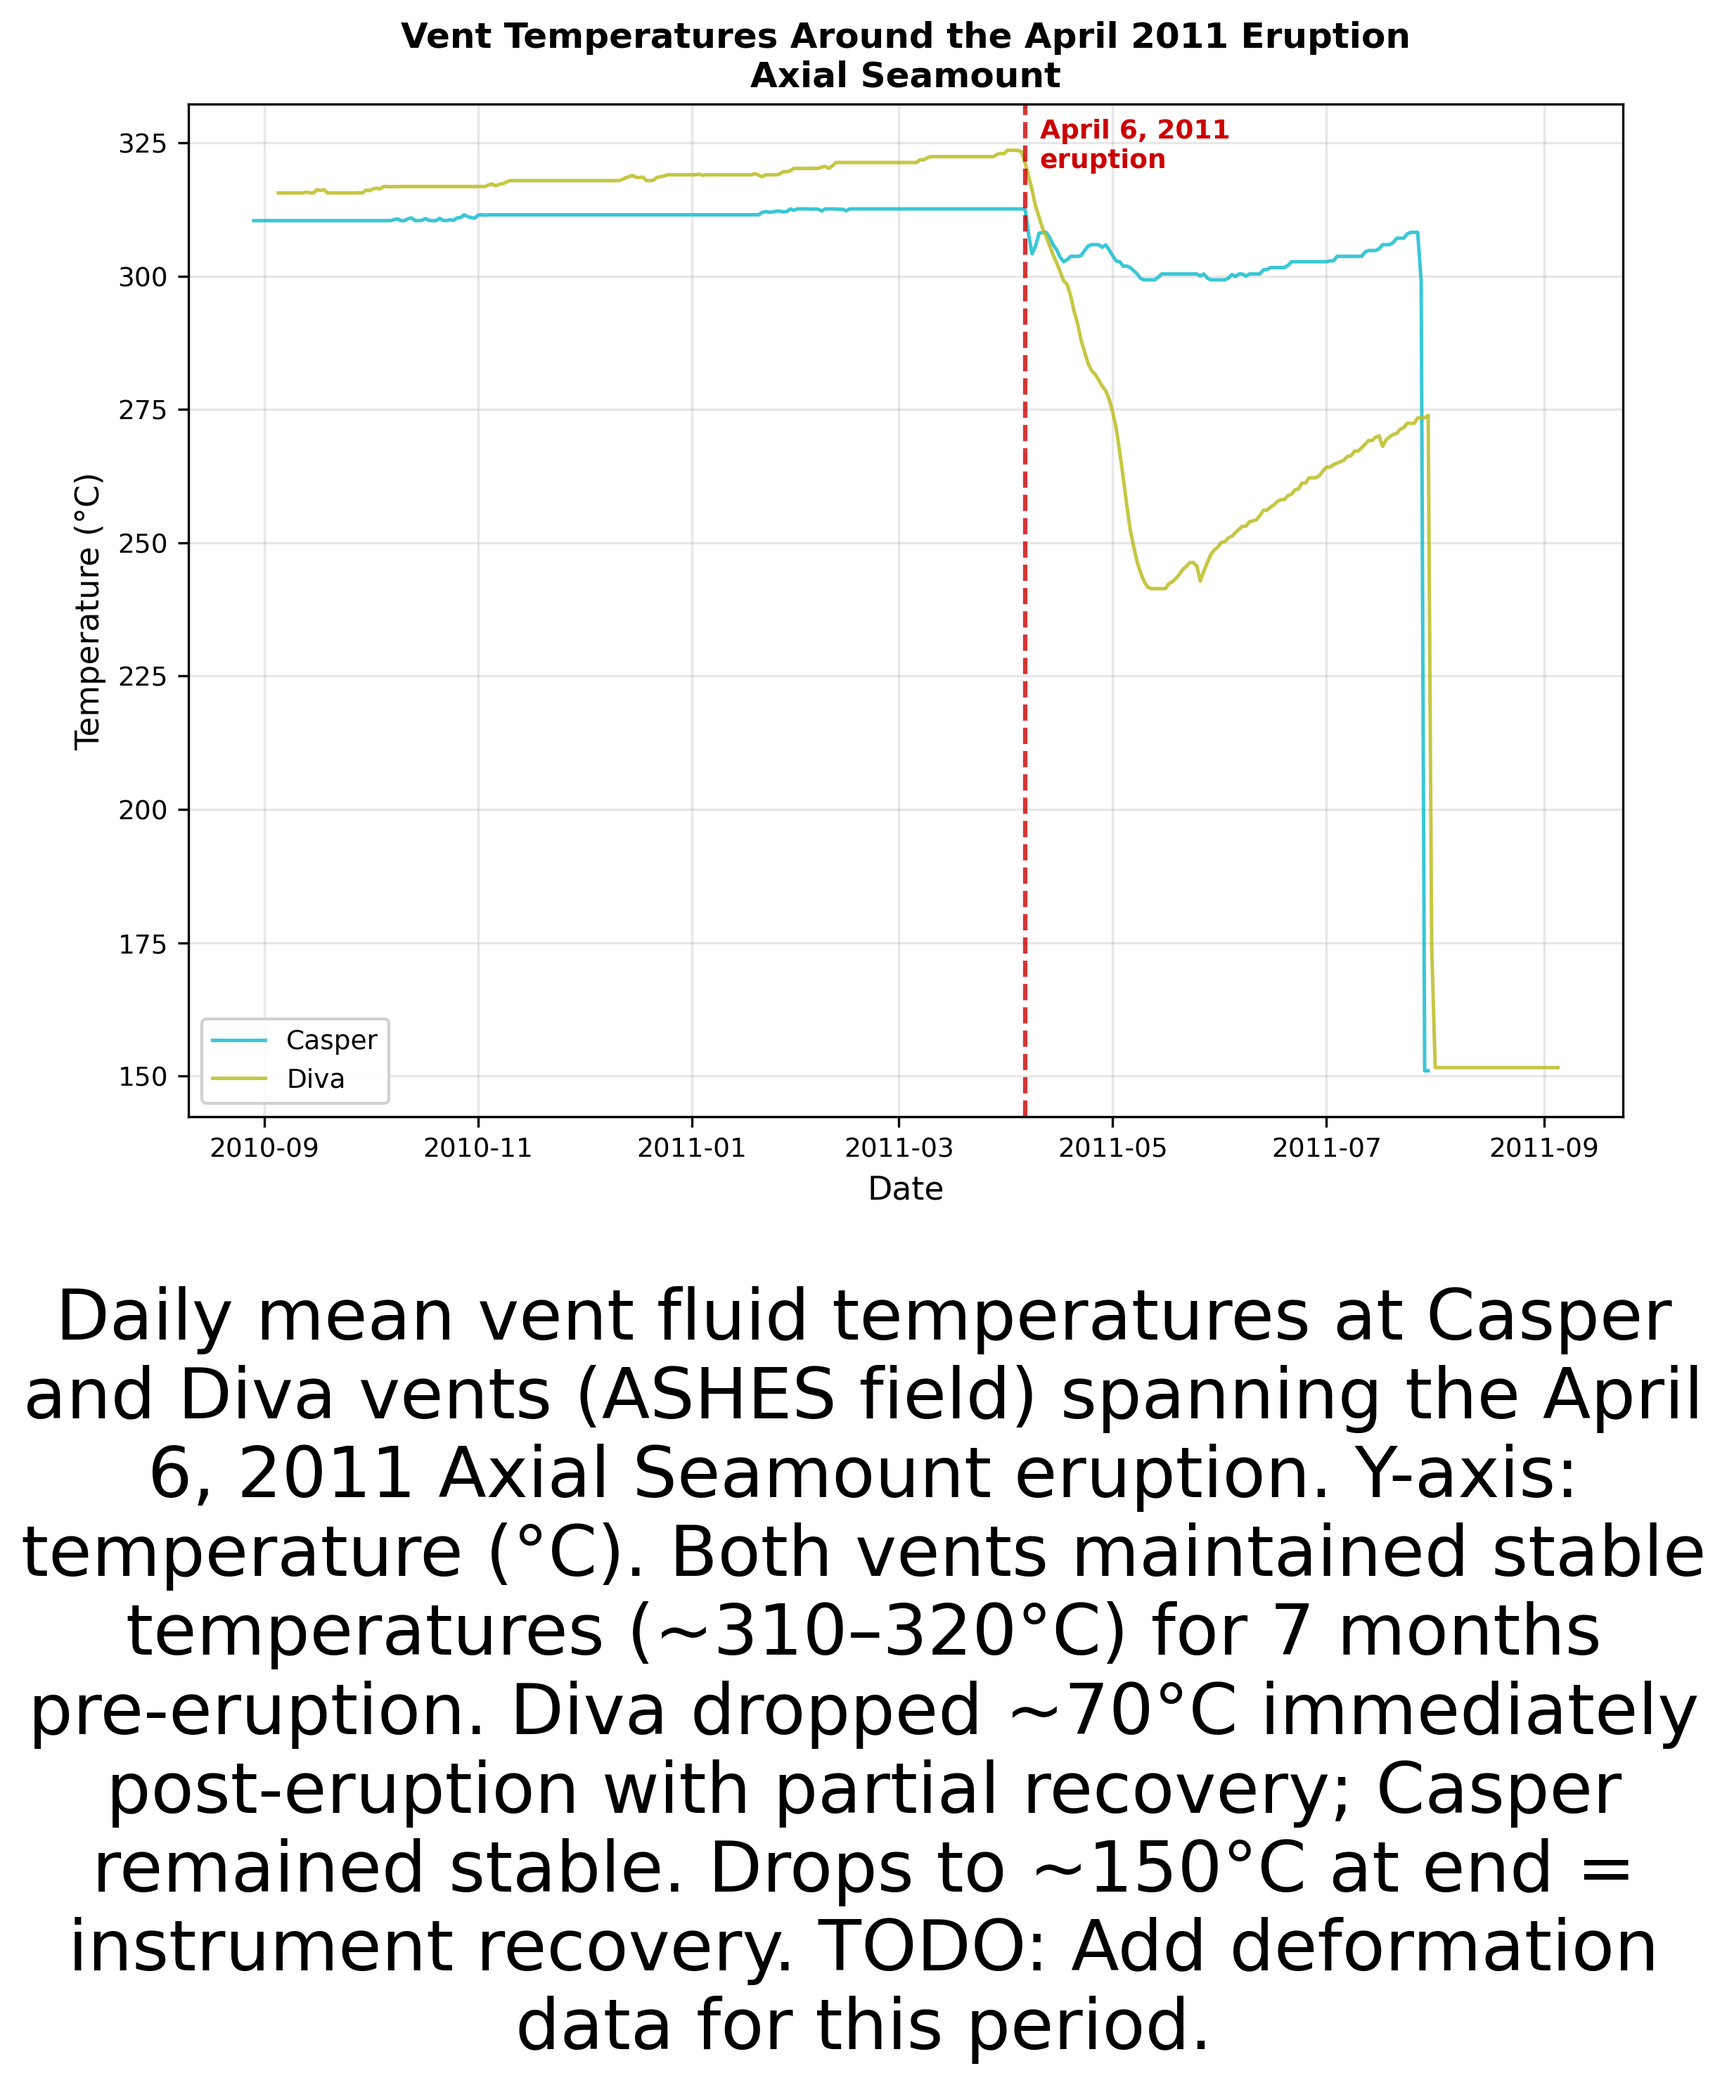
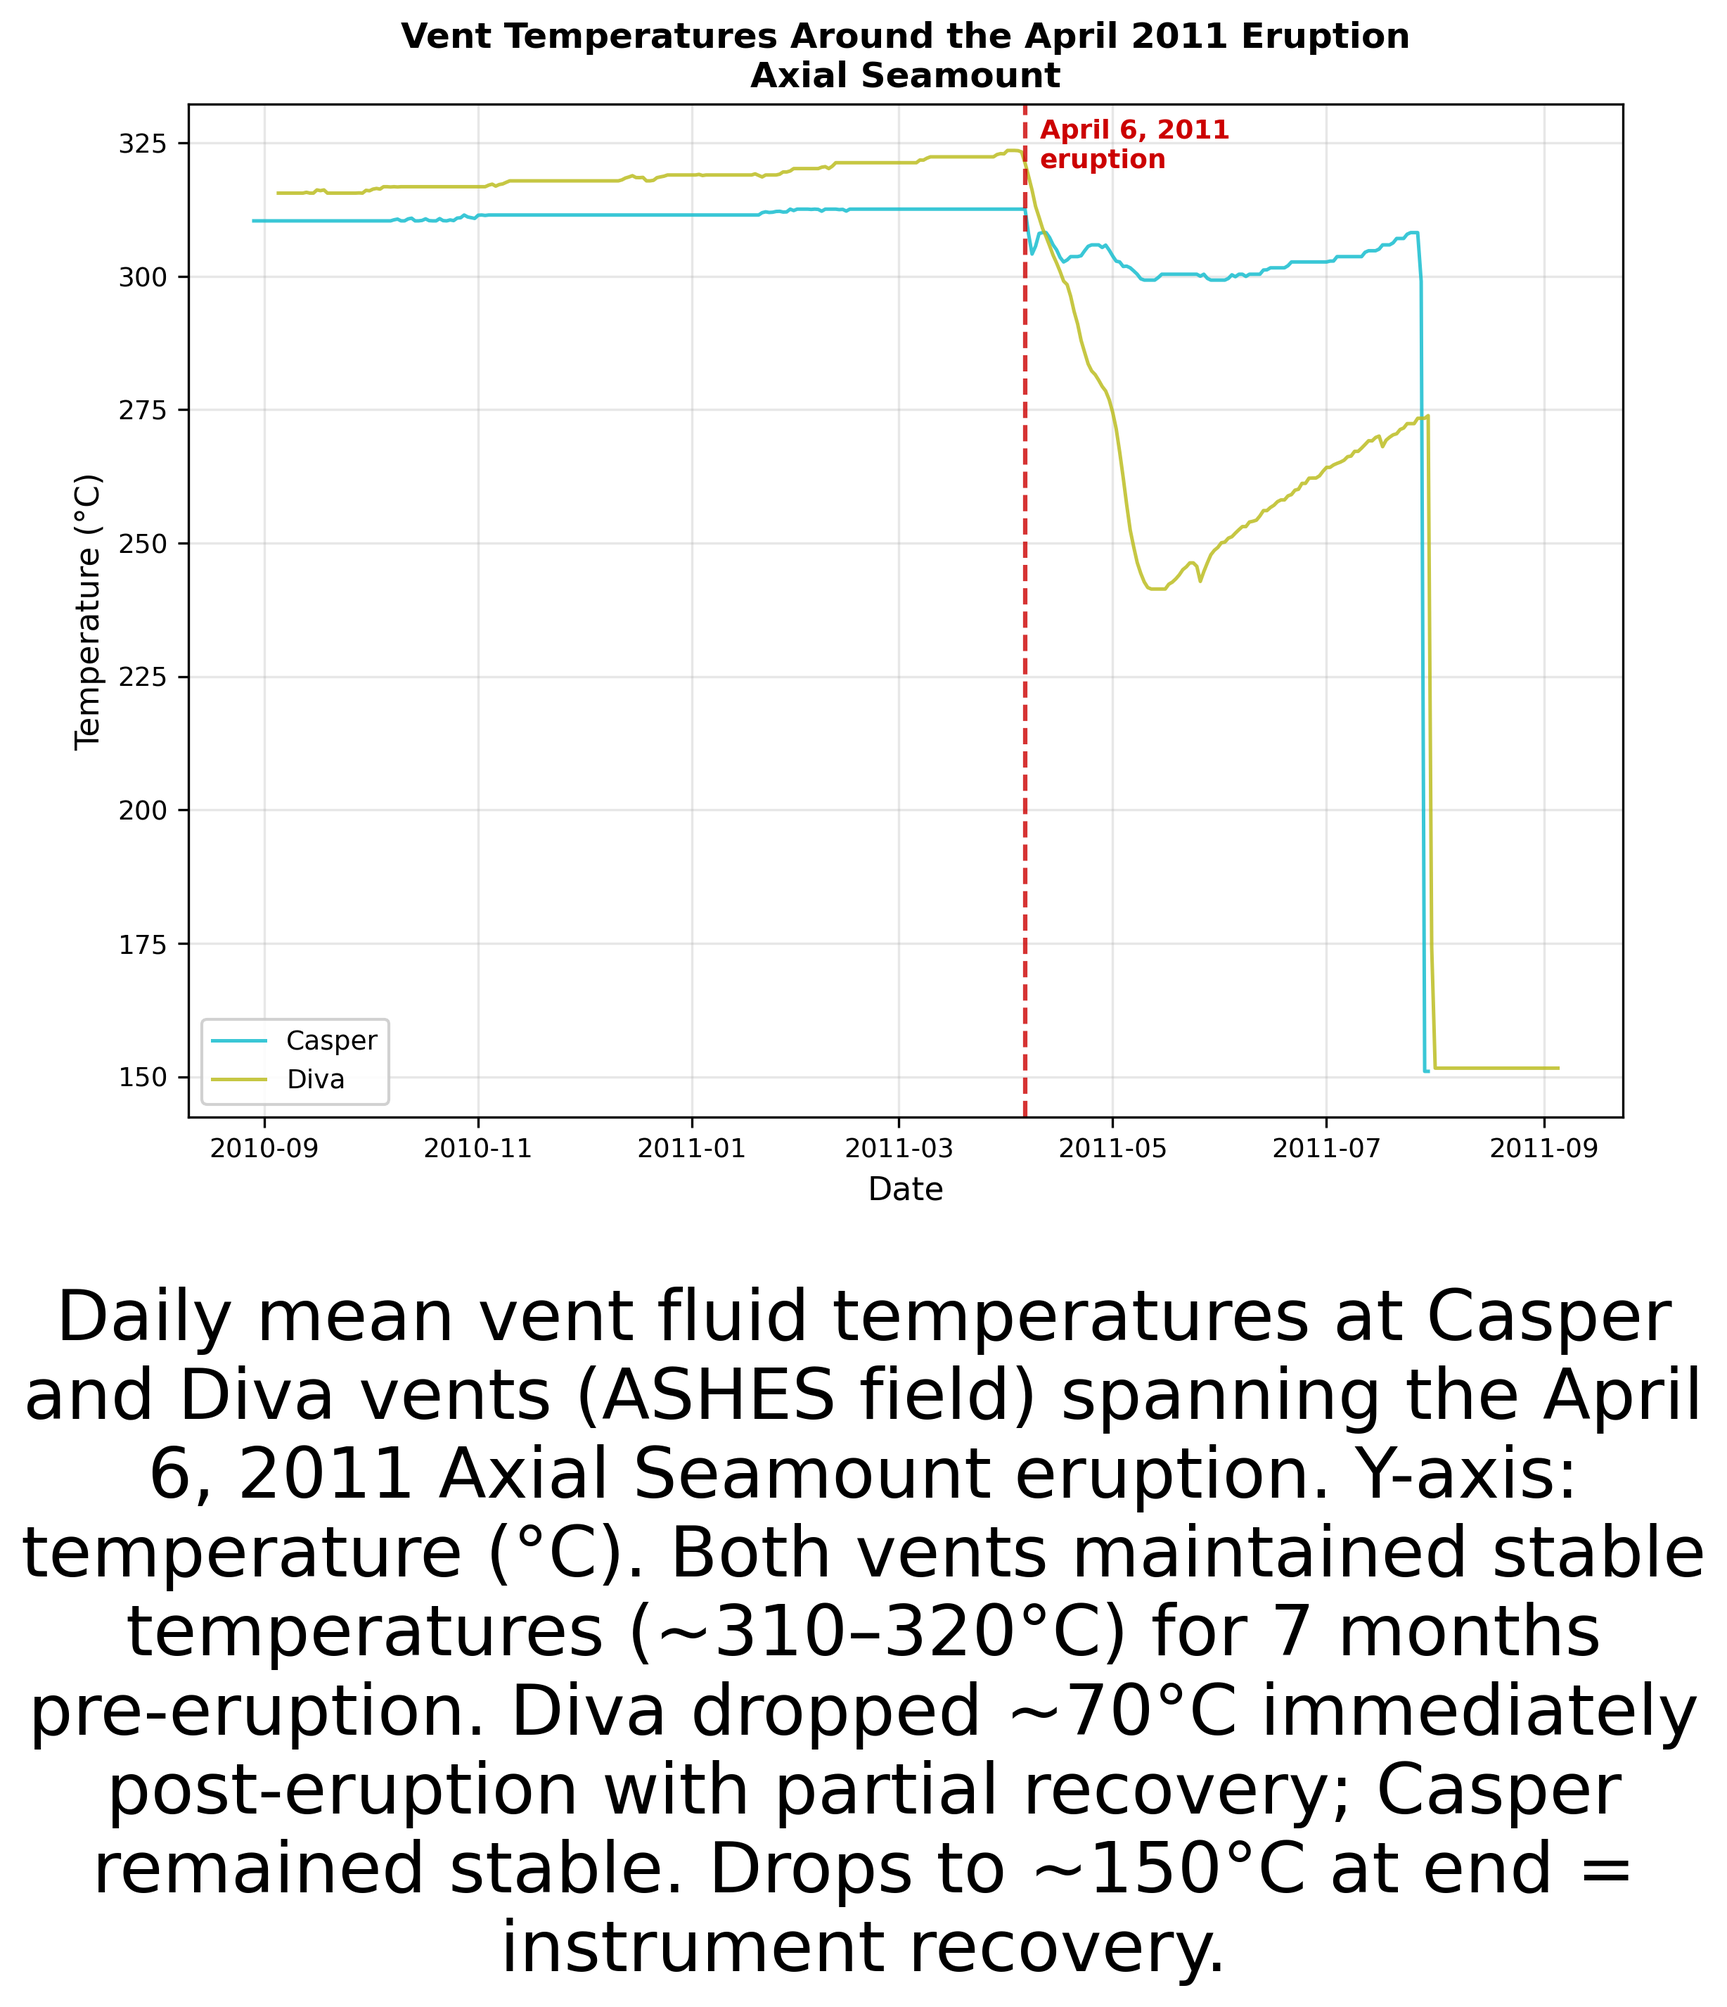
Fix high-priority figure issues: legends and caption
- High-temp comparison: move legend outside plot area (right side)
- Poster figure: move legend from TMPSF panel to main temperature panel
- Eruption 2011: remove TODO from caption

diff --git a/survey.py b/survey.py
@@ -353,7 +353,7 @@ def fig_historical_eruption(records, fig_path, eruption_date=None):
         "April 6, 2011 Axial Seamount eruption. Y-axis: temperature (°C). Both vents maintained "
         "stable temperatures (~310–320°C) for 7 months pre-eruption. Diva dropped ~70°C immediately "
         "post-eruption with partial recovery; Casper remained stable. Drops to ~150°C at end = "
-        "instrument recovery. TODO: Add deformation data for this period."
+        "instrument recovery."
     )
     add_figure_caption(fig, caption, fontsize=24)
 
@@ -474,9 +474,9 @@ def fig_hightemp_comparison(records, summary, fig_path):
     high_recs = [r for r, s in zip(records, summary.itertuples())
                  if s.Classification == "High-temp"]
 
-    # Create figure with space for caption
-    fig = plt.figure(figsize=(8, 6), dpi=300)
-    ax = fig.add_axes([0.1, 0.35, 0.85, 0.55])
+    # Create figure with space for caption and legend outside
+    fig = plt.figure(figsize=(10, 6), dpi=300)
+    ax = fig.add_axes([0.08, 0.35, 0.65, 0.55])  # Leave room on right for legend
 
     for rec in high_recs:
         deployed = rec[rec["deployed"]]
@@ -490,7 +490,7 @@ def fig_hightemp_comparison(records, summary, fig_path):
     ax.set_xlabel("Date")
     ax.set_ylabel("Temperature (°C)")
     ax.set_title("High-Temperature Vents — Daily Mean Comparison (2022–2025)")
-    ax.legend(loc="upper right", fontsize=8, frameon=True)
+    ax.legend(loc="upper left", bbox_to_anchor=(1.02, 1), fontsize=8, frameon=True)
     ax.grid(True, alpha=0.3)
 
     # Deployment change annotation
@@ -627,10 +627,9 @@ def fig_poster_bpr(records, summary, bpr, fig_path, tmpsf=None):
     if xmin <= deploy_change <= xmax:
         ax1.axvline(deploy_change, color="#666666", linestyle=":", linewidth=1, alpha=0.7)
 
-    # Legend inside bottom panel
-    bottom_ax = ax3 if tmpsf is not None else ax1
-    bottom_ax.legend(all_lines, all_labels,
-                     loc="lower right", ncol=2, fontsize=7, frameon=True, framealpha=0.9)
+    # Legend in main temperature panel (top), not TMPSF panel
+    ax1.legend(all_lines, all_labels,
+               loc="lower right", ncol=2, fontsize=7, frameon=True, framealpha=0.9)
 
     ax1.set_title("Hydrothermal Vent Temperatures and Volcanic Deformation\nAxial Seamount (2022–2025)",
                   fontsize=13, fontweight="bold")
